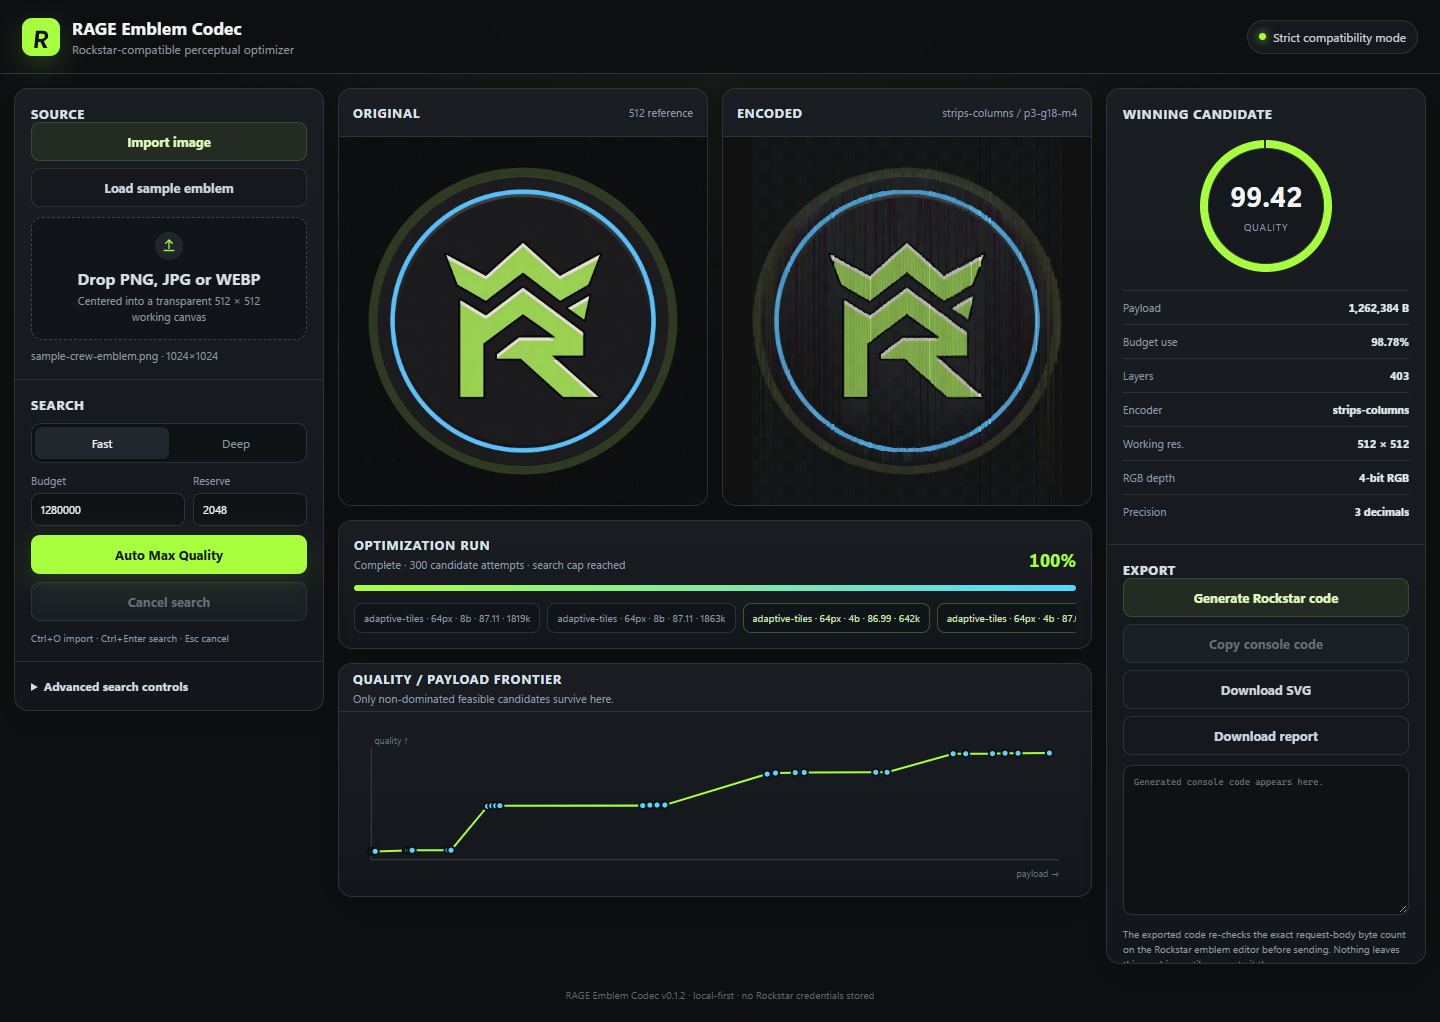
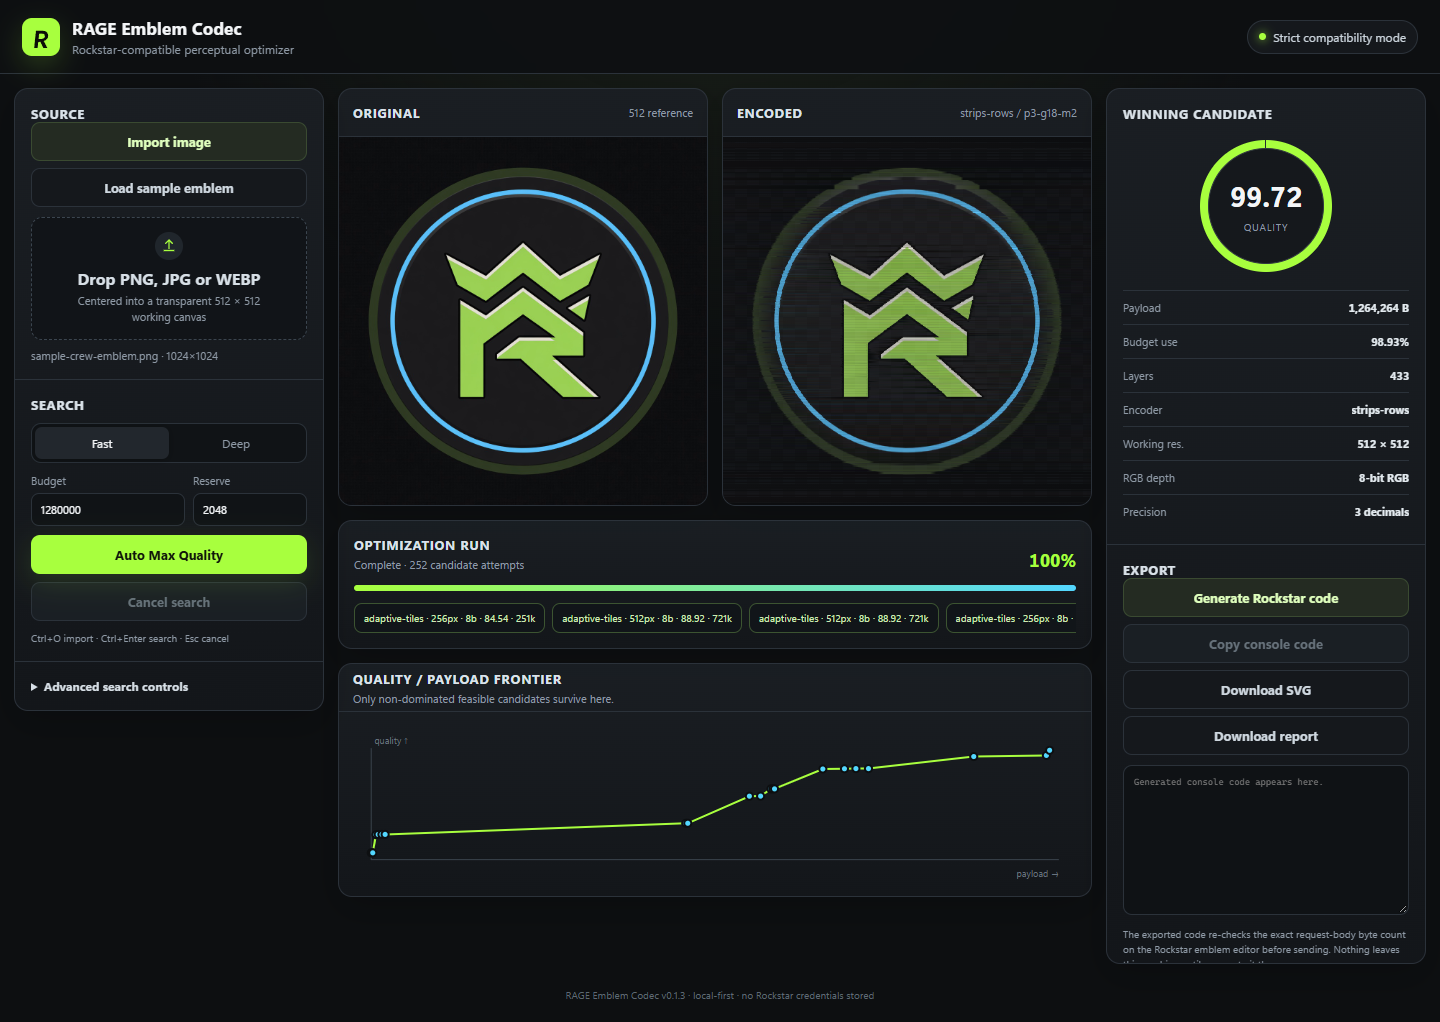
v0.1.3: stop Fast search from crowning 4-bit column banding.

diff --git a/src/codec/search.js b/src/codec/search.js
@@ -4,8 +4,10 @@ import { encodeTiles } from './tile-encoder.js';
 import { createMetricContext, scoreModels } from './metrics.js';
 import { chooseBestCandidate, paretoFrontier } from './optimizer.js';
 
-const STRIP_LEVELS = [
-  [0,0],[1,0],[2,0],[4,0],[2,2],[6,0],[4,2],[8,2],[12,3],[18,4],[28,6],[40,8]
+export const STRIP_LEVELS = [
+  [0,0],[1,0],[2,0],[4,0],[2,2],[6,0],[4,2],[8,2],
+  [18,2],
+  [12,3],[18,4],[28,6],[40,8]
 ];
 const TILE_LEVELS = [0,2,4,6,10,16,24,36,52,72];
 
@@ -16,7 +18,7 @@ function defaultsForPreset(preset, maxSize) {
     bits: [8,7,6,5,4], encoderFamilies: ['strips','tiles'], maxCandidates: 1800
   };
   return {
-    resolutions: clamp([64,128,256]), bits: [8,6,4], encoderFamilies: ['strips','tiles'], maxCandidates: 300
+    resolutions: clamp([64,128,256]), bits: [8,6], encoderFamilies: ['strips','tiles'], maxCandidates: 300
   };
 }
 
@@ -109,30 +111,34 @@ export function searchImage(reference, options = {}, onProgress = null) {
   ).filter(o => o === 'rows' || o === 'columns');
   const stripOrientations = orientations.length ? orientations : ['rows', 'columns'];
 
-  // Search cheap strip candidates first. Within each compression level, sweep every
-  // requested resolution before spending work on another precision/bit-depth pair.
-  // This prevents a candidate cap from being consumed entirely at one resolution.
-  outer:
-  for (let level = 0; level < STRIP_LEVELS.length && families.includes('strips'); level++) {
-    const [gradientTolerance, mergeTolerance] = STRIP_LEVELS[level];
-    for (const precision of precisions) {
-      for (const bits of bitDepths) {
-        for (const orientation of stripOrientations) {
-          for (const resolution of resolutions) {
-            if (stopped) break outer;
-            const key = `${resolution}:${bits}:${precision}:${orientation}`;
-            if (stripDone.has(key)) continue;
-            const img = imageFor(resolution);
-            const result = encodeStrips(img, {
-              orientation, precision, bits, gradientTolerance, mergeTolerance,
-              preserveEdges: true, edgeThreshold
-            });
-            const c = evaluate(result, {
-              encoder: `strips-${orientation}`, resolution, bits,
-              variant: `p${precision}-g${gradientTolerance}-m${mergeTolerance}`,
-              settings: { orientation, precision, bits, gradientTolerance, mergeTolerance, edgeThreshold }
-            });
-            if (c && c.payloadBytes <= effectiveBudget) stripDone.add(key);
+  // Colour depth is outer: once 8-bit already fits, 4-bit posterization must not
+  // outrank it on a metric that under-penalizes banding. Within a bit depth,
+  // sweep every resolution before another compression level so a cap cannot
+  // burn entirely on one size.
+  if (families.includes('strips')) {
+    bitOuter:
+    for (const bits of bitDepths) {
+      if (bestFull && (bestFull.bits ?? 8) > bits) break bitOuter;
+      for (let level = 0; level < STRIP_LEVELS.length; level++) {
+        const [gradientTolerance, mergeTolerance] = STRIP_LEVELS[level];
+        for (const precision of precisions) {
+          for (const orientation of stripOrientations) {
+            for (const resolution of resolutions) {
+              if (stopped) break bitOuter;
+              const key = `${resolution}:${bits}:${precision}:${orientation}`;
+              if (stripDone.has(key)) continue;
+              const img = imageFor(resolution);
+              const result = encodeStrips(img, {
+                orientation, precision, bits, gradientTolerance, mergeTolerance,
+                preserveEdges: true, edgeThreshold
+              });
+              const c = evaluate(result, {
+                encoder: `strips-${orientation}`, resolution, bits,
+                variant: `p${precision}-g${gradientTolerance}-m${mergeTolerance}`,
+                settings: { orientation, precision, bits, gradientTolerance, mergeTolerance, edgeThreshold }
+              });
+              if (c && c.payloadBytes <= effectiveBudget) stripDone.add(key);
+            }
           }
         }
       }
@@ -142,10 +148,11 @@ export function searchImage(reference, options = {}, onProgress = null) {
   // Adaptive tiling is more expensive, so only search it after the strip baseline.
   if (!stopped && families.includes('tiles')) {
     tileOuter:
-    for (let level = 0; level < TILE_LEVELS.length; level++) {
-      const modelTolerance = TILE_LEVELS[level];
-      for (const precision of precisions) {
-        for (const bits of bitDepths) {
+    for (const bits of bitDepths) {
+      if (bestFull && (bestFull.bits ?? 8) > bits) break tileOuter;
+      for (let level = 0; level < TILE_LEVELS.length; level++) {
+        const modelTolerance = TILE_LEVELS[level];
+        for (const precision of precisions) {
           for (const minTile of tileSizes) {
             for (const resolution of resolutions) {
               if (stopped) break tileOuter;

diff --git a/tests/search.test.js b/tests/search.test.js
@@ -2,7 +2,7 @@ import test from 'node:test';
 import assert from 'node:assert/strict';
 import { makeImage } from '../src/codec/model.js';
 import { resizeImage } from '../src/codec/resample.js';
-import { searchImage } from '../src/codec/search.js';
+import { searchImage, STRIP_LEVELS } from '../src/codec/search.js';
 
 function solid(w,h,c) {
   const d=new Uint8ClampedArray(w*h*4);
@@ -50,6 +50,47 @@ test('custom quality target stops search once a fitting candidate reaches the re
   assert.equal(result.targetReached,true);
   assert.equal(result.stoppedAtLimit,false);
   assert.equal(result.evaluated,1);
+});
+
+test('search does not descend to 4-bit after an 8-bit candidate already fits', () => {
+  const d = new Uint8ClampedArray(32 * 32 * 4);
+  for (let y = 0; y < 32; y++) {
+    for (let x = 0; x < 32; x++) {
+      const v = (x * 11 + y * 5 + ((x * y) % 7)) & 255;
+      d.set([v, 40 + (y % 80), 90, 255], (y * 32 + x) * 4);
+    }
+  }
+  const image = makeImage(32, 32, d);
+  const result = searchImage(image, {
+    preset: 'custom',
+    budget: 1_280_000,
+    reserve: 0,
+    resolutions: [16],
+    bits: [8, 4],
+    encoderFamilies: ['strips'],
+    precision: 3,
+    qualityTarget: null,
+    maxCandidates: 80
+  });
+  assert.ok(result.best, 'expected a feasible winner');
+  assert.ok(result.candidates.some(c => c.bits === 8 && c.payloadBytes <= result.effectiveBudget));
+  assert.equal(result.candidates.some(c => c.bits === 4), false, '4-bit must not run after 8-bit already fits');
+  assert.equal(result.best.bits, 8);
+});
+
+test('strip levels try high-tolerance merge-2 before merge-3 so row tearing is a last resort', () => {
+  const merge2 = STRIP_LEVELS.findIndex(([g, m]) => g === 18 && m === 2);
+  const merge3 = STRIP_LEVELS.findIndex(([, m]) => m >= 3);
+  assert.ok(merge2 >= 0, 'missing [18,2] strip level');
+  assert.ok(merge3 >= 0);
+  assert.ok(merge2 < merge3, 'merge-2 at g18 must run before merge-3');
+});
+
+test('fast preset does not include 4-bit RGB in the default sweep', () => {
+  const image = solid(16, 16, [20, 180, 90, 255]);
+  const result = searchImage(image, { preset: 'fast', budget: 1, reserve: 0, encoderFamilies: ['strips'], maxCandidates: 24 });
+  const bits = [...new Set(result.candidates.map(c => c.bits))].sort((a, b) => b - a);
+  assert.equal(bits.includes(4), false, `fast bits were ${bits.join(',')}`);
 });
 
 test('stripOrientations rows-only never evaluates column strips', () => {

diff --git a/src/codec/optimizer.js b/src/codec/optimizer.js
@@ -1,8 +1,18 @@
+function visibleQuality(c) {
+  const bits = Number.isFinite(c.bits) ? c.bits : 8;
+  const columnTax = c.encoder === 'strips-columns' ? 0.35 : 0;
+  return c.quality - Math.max(0, 8 - bits) * 0.22 - columnTax;
+}
+
 export function chooseBestCandidate(candidates, budget) {
   const feasible = candidates.filter(c => c.payloadBytes <= budget);
   if (!feasible.length) return null;
   return [...feasible].sort((a, b) =>
-    b.quality - a.quality || b.payloadBytes - a.payloadBytes || String(a.id ?? '').localeCompare(String(b.id ?? ''))
+    visibleQuality(b) - visibleQuality(a) ||
+    (b.bits ?? 8) - (a.bits ?? 8) ||
+    (b.resolution ?? 0) - (a.resolution ?? 0) ||
+    b.payloadBytes - a.payloadBytes ||
+    String(a.id ?? '').localeCompare(String(b.id ?? ''))
   )[0];
 }
 

diff --git a/tests/optimizer.test.js b/tests/optimizer.test.js
@@ -27,6 +27,15 @@ test('optimizer rejects over-budget candidates',()=>{
   assert.equal(best.quality,90);
 });
 
+test('chooser prefers 8-bit rows over 4-bit columns when the metric gap is small', () => {
+  const best = chooseBestCandidate([
+    { id: 'c4', quality: 99.42, bits: 4, encoder: 'strips-columns', resolution: 512, payloadBytes: 1_262_384 },
+    { id: 'r8', quality: 98.96, bits: 8, encoder: 'strips-rows', resolution: 512, payloadBytes: 1_259_456 }
+  ], 1_277_952);
+  assert.equal(best.id, 'r8');
+  assert.equal(best.bits, 8);
+});
+
 test('pareto frontier removes candidates that are both larger and worse',()=>{
   const p=paretoFrontier([
     {quality:90,payloadBytes:900,id:'a'},

diff --git a/src/version.js b/src/version.js
@@ -1,1 +1,1 @@
-export const VERSION = '0.1.2';
+export const VERSION = '0.1.3';

diff --git a/README.md b/README.md
@@ -14,7 +14,7 @@
 <p align="center">
   <a href="https://github.com/SenjuWoo/RAGE-Emblem-Codec/actions/workflows/ci.yml"><img src="https://github.com/SenjuWoo/RAGE-Emblem-Codec/actions/workflows/ci.yml/badge.svg" alt="CI"></a>
   <a href="LICENSE"><img src="https://img.shields.io/badge/license-MIT-a8ff3e?labelColor=0d0f11" alt="MIT License"></a>
-  <a href="https://github.com/SenjuWoo/RAGE-Emblem-Codec/releases"><img src="https://img.shields.io/badge/release-v0.1.2-53d7ff?labelColor=0d0f11" alt="v0.1.2"></a>
+  <a href="https://github.com/SenjuWoo/RAGE-Emblem-Codec/releases"><img src="https://img.shields.io/badge/release-v0.1.3-53d7ff?labelColor=0d0f11" alt="v0.1.3"></a>
   <img src="https://img.shields.io/badge/node-%3E%3D20-8f9aa6?labelColor=0d0f11" alt="Node 20+">
 </p>
 
@@ -56,7 +56,7 @@ It grew out of [Emblem Helper 1.1 by Flashback-GTA](https://github.com/search?q=
 - Premultiplied-alpha resampling (no colored transparency halos)
 - Edge-weighted perceptual scoring, Pareto frontier, Fast and Deep modes
 - Runtime request-size guard in the generated Social Club console code
-- 58 automated tests (codec, search, preview scaling, version / UI guards)
+- 62 automated tests (codec, search, preview scaling, version / UI guards)
 - Local-first: artwork never needs to leave your machine
 - Tauri 2 desktop scaffold (optional; no fabricated Windows `.exe` is shipped)
 
@@ -108,7 +108,7 @@ Vertical scanlines mean the winner was a **column-strip** encode, usually below 
 
 Deterministic synthetic artwork, not a claim about every photo. Quality is the edge-weighted proxy (`100` = exact under that metric). Scorer unchanged from the first public benches.
 
-| Budget | Legacy-style | RAGE v0.1.2 | Quality | Payload |
+| Budget | Legacy-style | RAGE | Quality | Payload |
 | ---: | --- | --- | ---: | ---: |
 | 1,280,000 B | 98.782 @ 536,060 B | **99.9995 @ 1,276,380 B** | **+1.218** | +740,320 B |
 | 120,000 B | 53.634 @ 116,928 B | **55.210 @ 84,804 B** | **+1.577** | **−32,124 B** |
@@ -155,7 +155,7 @@ The bundle target is NSIS only. This repository does **not** ship a prebuilt `.e
 
 ## Compatibility boundary
 
-v0.1.2 Strict mode uses the known-safe subset:
+Strict mode uses the known-safe subset:
 
 - legacy rectangle slug
 - transformed SVG paths
@@ -168,7 +168,7 @@ Not enabled until proven against the live editor: `<use>`, arbitrary primitives,
 
 Verified in this tree:
 
-- 58 automated tests
+- 62 automated tests
 - static frontend build
 - 1,280,000-byte and 120,000-byte benchmarks
 - runtime request-size guard tests

diff --git a/CHANGELOG.md b/CHANGELOG.md
@@ -1,5 +1,18 @@
 # Changelog
 
+## 0.1.3 — 2026-09-14
+
+### Codec
+
+- Fast search no longer sweeps 4-bit RGB. Once an 8-bit candidate fits, lower bit depths are not searched.
+- Winner ranking penalizes posterized bit depths and column scanlines, so a 4-bit column encode cannot beat a slightly lower-scoring 8-bit row encode.
+- Sample emblem Fast search now wins **512×512 8-bit rows** (`p3-g18-m2`, quality 99.72) instead of 4-bit columns
+- Strip search tries merge-2 at high gradient tolerance before merge-3 so adjacent-row tearing is a last resort
+
+### Tests
+
+- 62 automated tests
+
 ## 0.1.2 — 2026-09-14
 
 ### App
